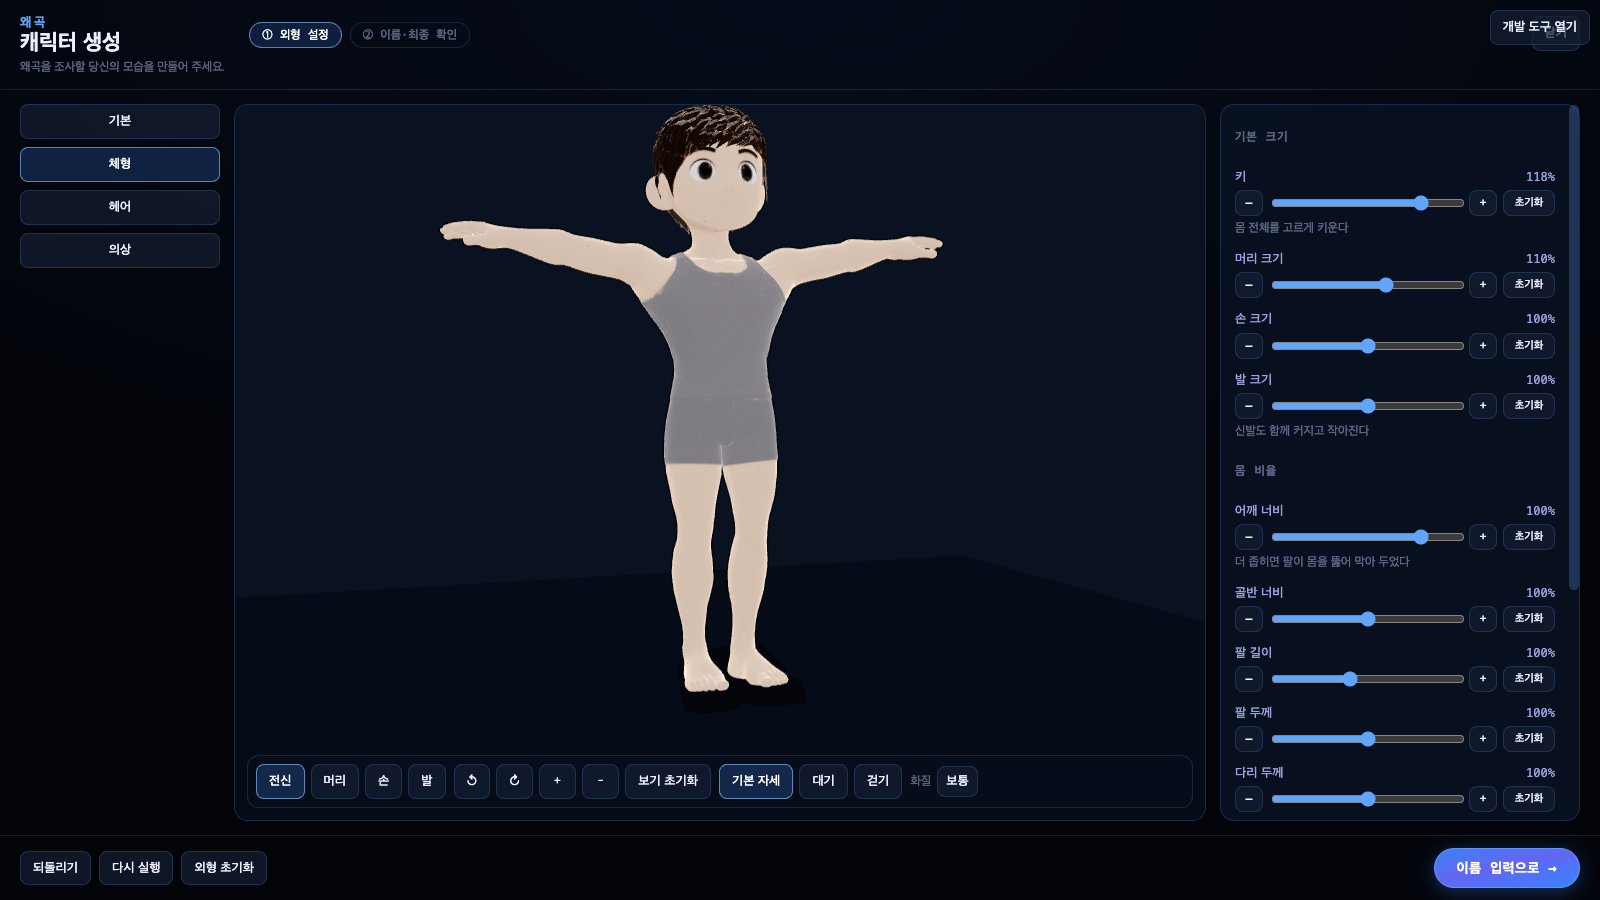
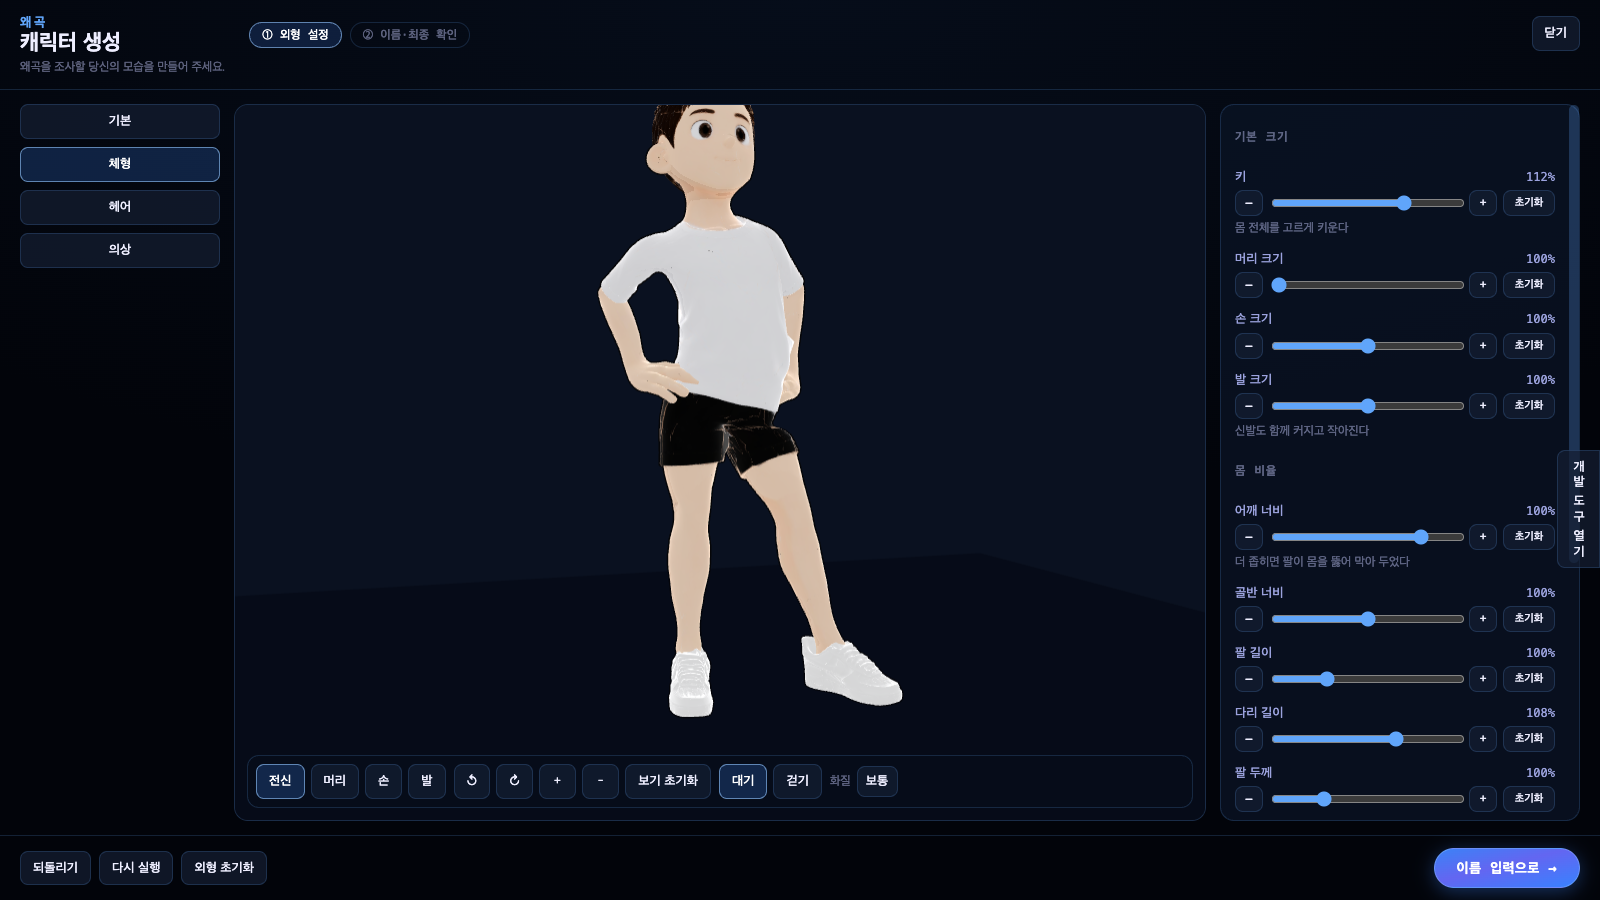
fix: scale arm and leg bones so the flesh follows, and drop the folded idle
**팔꿈치가 끊겨 보인 원인**: 팔 길이를 아래팔·손 뼈의 *위치* 로만 줄였다. 관절
사이 거리는 줄어도 위팔 살은 그대로라 팔꿈치에서 살이 겹쳤다("아래쪽만 줄어
든다"는 지적 그대로다). 이제 위팔 뼈를 **균등 배율**로 줄이고 손만 역배율로
되돌린다 — 살이 함께 줄고 늘어난다. 한 축만 줄이면 팔꿈치가 굽었을 때
찌그러지므로 반드시 균등이어야 한다.

- 같은 방식으로 **다리 길이**(legLength)를 더했다. 허벅지 뼈 배율, 발은 역배율.
  메시외형옵션에도 정식 항목으로 넣어 게임 패널에서도 조절된다.
- 남성 대기를 팔짱에서 **여성과 같은 클립(허리에 손)** 으로 바꾸고, 남성만
  다리를 5° 벌려 자세를 구분한다. 팔짱 클립은 어깨 폭이 맞지 않아 손이 반대팔을
  뚫거나 허공에 떴다. 클립 파일은 남아 있어 되살릴 수 있다.
- 남성 걷기도 다리를 3° 벌렸다(상체에 견줘 하체가 모여 보였다).
- 생성 화면 시작값: 티셔츠·반바지·운동화 차림, 머리 최소(0.80), 팔·다리 두께
  0.85, 체형 마름 20%. 미리보기 자세에서 T포즈를 빼고 대기·걷기만 남겼다.
- 팔·다리 길이는 굵기도 함께 줄므로 하한을 팔 0.78, 다리 0.85 로 두었다.
- 자동 검사 27개 통과(다리 길이·새 기본값 검사 추가).

diff --git a/naju01/src/모션보정.js b/naju01/src/모션보정.js
@@ -124,6 +124,9 @@ export const 기본보정 = {
   // 읽힌다. 허벅지를 바깥으로 a, 정강이를 안쪽으로 2a 돌리면 무릎만 바깥으로 나가고
   // 발목은 제자리다(허벅지≈정강이 길이). 발은 a 되돌려 발바닥을 평평하게 둔다.
   무릎벌림도: 3,
+  // 서 있을 때 두 다리를 좌우로 벌린다(+ 바깥). 발은 바닥에 평평히 남게 반대로 돌린다.
+  // 무릎벌림도와 달리 종아리를 되돌리지 않아 **발까지 함께 벌어진다** — 벌린 자세를 만드는 쪽이다.
+  다리벌림도: 0,
   // 발 안쪽 돌림(도, + = 발끝을 안으로). 발뼈는 앞을 보는데 살이 바깥으로 틀어진 몸체에 쓴다.
   발안쪽돌림도: 0,
   // 발마다 다르게 돌릴 때(없으면 발안쪽돌림도). 팔자걸음이 좌우 비대칭인 클립에 쓴다.
@@ -167,7 +170,7 @@ export const 트리포보정 = {
   //   어깨 세모근이 통째로 돌아 어깨가 변형되고, 좌우 팔이 다른 각도로 흔들려 보였다(되돌림).
   걷기팔롤도: 0,
   골반기울기도: 0, 허리곡선도: 0, 허리세움도: 0, 목세움도: 0, 보폭배율: 1, 발피치도: 0, 무릎펴기도: 0,
-  무릎벌림도: 0, 걷기숙임도: 0, 걷기다리앞도: 0, 걷기다리모음도: 0,
+  무릎벌림도: 0, 다리벌림도: 0, 걷기숙임도: 0, 걷기다리앞도: 0, 걷기다리모음도: 0,
   // 팔자걸음 교정 — Tripo 걷기는 디딜 때 발끝이 왼발 12°, 오른발 5.6° 바깥을 봤다(원본 캐릭터 0°).
   // 대기는 일부러 벌린 자세(28°/14°)라 이만큼 돌려도 열린 채 남는다.
   발안쪽돌림도: 0, 왼발안쪽돌림도: 10, 오른발안쪽돌림도: 4,
@@ -193,7 +196,13 @@ export const 트리포성별보정 = {
   // 내려왔다. 골반만 18° 앞으로 돌린다(다리·상체는 제자리).
   // 상체가 굳어 보여 원본 캐릭터만큼 움직이게 한다 — 실측 가슴 좌우 비틀림 폭 8.3°, 몸통 앞기울기
   // 7.2° 였다(원본 15°, 11°). 척추 비틀림을 1.4 배로 키우고 요추를 4° 더 숙여 기준에 맞춘다.
-  masculine: { 걷기숙임도: 14, 몸비틀배율: 1.4, 걷기가슴세움도: 15, 걷기목세움도: -5, 걷기골반기울기도: 18, 왼발안쪽돌림도: 14, 오른발안쪽돌림도: 8 },
+  // 걷기: 상체에 견줘 다리가 너무 모여 보였다. 조금만 벌린다(걷기다리모음도 음수 = 벌림).
+  // 대기: 남녀가 같은 클립(허리에 손)을 쓰므로, 남성만 다리를 벌려 자세를 구분한다.
+  masculine: {
+    걷기숙임도: 14, 몸비틀배율: 1.4, 걷기가슴세움도: 15, 걷기목세움도: -5, 걷기골반기울기도: 18,
+    왼발안쪽돌림도: 14, 오른발안쪽돌림도: 8, 걷기다리모음도: -3,
+    대기덧값: { 다리벌림도: 5 },
+  },
   // 여성 대기(Idle_Loop)는 골반이 앞으로 심하게 기울고 요추가 뒤로 14° 젖혀져 허리가 꺾여 보였다.
   // 골반을 20° 말아 넣고 요추를 같은 만큼 되세워 — 전체 기울기는 그대로 두고 굽이만 편다.
   // 걷기·달리기에는 안 걸린다(치비게임아바타가 Idle_Loop 클립에만 쓴다).
@@ -254,6 +263,10 @@ const 자세보정 = (값) => [
   ["foot_l", 옆축, -값.발피치도, false],
   ["foot_r", 옆축, -값.발피치도, false],
   // 무릎 벌리기 — 앞축 둘레. 왼다리는 +가 바깥.
+  ["thigh_l", 앞축, 값.다리벌림도, false],
+  ["thigh_r", 앞축, -값.다리벌림도, false],
+  ["foot_l", 앞축, -값.다리벌림도, false],
+  ["foot_r", 앞축, 값.다리벌림도, false],
   ["thigh_l", 앞축, 값.무릎벌림도, false],
   ["thigh_r", 앞축, -값.무릎벌림도, false],
   ["calf_l", 앞축, -2 * 값.무릎벌림도, false],

diff --git a/naju01/src/캐릭터생성/카탈로그.js b/naju01/src/캐릭터생성/카탈로그.js
@@ -54,10 +54,11 @@ export const 기본카탈로그 = {
     항목("shoes.none", "shoes", "맨발", ["masculine", "feminine"], -1, { 썸네일: 성별그림("shoes.none") }),
     항목("shoes.sneaker.white", "shoes", "흰 운동화", ["masculine", "feminine"], 0, { 썸네일: 성별그림("shoes.sneaker.white") }),
   ],
-  // 처음 들어왔을 때의 착장 — 기본 속옷·맨발이다(요구 4장).
+  // 처음 들어왔을 때의 착장 — 지금 준비된 티셔츠·반바지·운동화 차림으로 시작한다.
+  // (속옷 차림으로 시작하지 않는다. 속옷만 보고 싶으면 '속옷으로 체형 보기' 를 켜면 된다.)
   신규기본: {
-    masculine: { hair: "hair.m.crop", top: "top.none", bottom: "bottom.none", shoes: "shoes.none" },
-    feminine: { hair: "hair.f.bob", top: "top.none", bottom: "bottom.none", shoes: "shoes.none" },
+    masculine: { hair: "hair.m.crop", top: "top.tee.white", bottom: "bottom.shorts.black", shoes: "shoes.sneaker.white" },
+    feminine: { hair: "hair.f.bob", top: "top.tee.white", bottom: "bottom.shorts.black", shoes: "shoes.sneaker.white" },
   },
   색상: 색상표(),
 };

diff --git a/naju01/src/캐릭터생성/캐릭터프리뷰.jsx b/naju01/src/캐릭터생성/캐릭터프리뷰.jsx
@@ -18,9 +18,9 @@ import { 색, 단추, 고른단추, 작은글 } from "./스타일.js";
 
 export const 보기목록 = [["전신", "전신"], ["머리", "머리"], ["손", "손"], ["발", "발"]];
 
-// 미리보기 자세는 **외형 데이터가 아니다.** 편집 중에는 몸을 가리지 않는 기본 자세를 쓰고,
-// 게임에서 어떻게 보이는지는 대기·걷기로 따로 확인한다(요구 6장).
-export const 자세목록 = [["A_TPose", "기본 자세"], ["Idle_Loop", "대기"], ["Walk_Loop", "걷기"]];
+// 미리보기 자세는 **외형 데이터가 아니다.** 게임에서 실제로 쓰는 자세만 둔다.
+// (T포즈 같은 작업용 자세는 빼 두었다 — 이용자에게 보여 줄 자세가 아니다.)
+export const 자세목록 = [["Idle_Loop", "대기"], ["Walk_Loop", "걷기"]];
 
 export const 품질목록 = [["낮음", "낮음"], ["보통", "보통"], ["높음", "높음"]];
 
@@ -238,7 +238,7 @@ export default function CC캐릭터프리뷰({
   설정,
   보기 = "전신",
   set보기,
-  자세 = "A_TPose",
+  자세 = "Idle_Loop",
   set자세,
   품질 = "보통",
   set품질,

diff --git a/naju01/src/메시외형옵션.js b/naju01/src/메시외형옵션.js
@@ -53,6 +53,7 @@ export const 메시슬라이더 = [
   ["heavy", "통통", 0, 1, 0.05],
   ["skinny", "마름", 0, 1, 0.05],
   ["armLength", "팔 길이", 0.7, 1.15, 0.01],
+  ["legLength", "다리 길이", 0.8, 1.2, 0.01],
   ["handScale", "손 크기", 0.7, 1.3, 0.01],
   ["footScale", "발 크기", 0.7, 1.3, 0.01],
   ["fistHands", "주먹 쥐기", 0, 1, 0.05],
@@ -87,8 +88,11 @@ export const 기본메시설정 = {
   heavy: 0,
   skinny: 0,
   // 팔 길이. Meshy 몸체는 팔이 무릎 가까이 내려올 만큼 길어 기본을 줄여 둔다.
-  // 뼈 스케일이 아니라 아래팔·손 뼈의 위치를 당기는 방식이라 손이 찌그러지지 않는다.
+  // 위팔 뼈를 통째로 균등 배율로 줄이고 손만 역배율로 되돌린다(치비게임아바타) — 살이 함께 줄어
+  // 팔꿈치가 끊겨 보이지 않는다.
   armLength: 0.88,
+  // 다리 길이. 팔과 같은 방식(허벅지 뼈를 통째로 배율 — 치비게임아바타)이라 살이 함께 줄고 늘어난다.
+  legLength: 1,
   handScale: 1,
   footScale: 1,
   fistHands: 0.6,

diff --git a/naju01/src/캐릭터생성/캐릭터생성화면.jsx b/naju01/src/캐릭터생성/캐릭터생성화면.jsx
@@ -156,7 +156,7 @@ export default function CC캐릭터생성화면({
   const [안내, set안내] = useState(처음값.알림.length ? 처음값.알림.join(" ") : null);
   const [좁음, set좁음] = useState(false);
   const [보기, set보기] = useState("전신");
-  const [자세, set자세] = useState("A_TPose");
+  const [자세, set자세] = useState("Idle_Loop");
   const [품질, set품질] = useState("보통");
 
   const [이름, set이름] = useState(처음값.초안.displayName);

diff --git a/naju01/src/캐릭터생성/미리보기.jsx b/naju01/src/캐릭터생성/미리보기.jsx
@@ -90,7 +90,7 @@ function CC미리보기() {
       </div>
 
       {판보임 ? null : (
-        <button type="button" style={{ ...단추, position: "fixed", right: 10, bottom: 10, zIndex: 5 }} onClick={() => set판보임(true)}>
+        <button type="button" style={{ ...단추, position: "fixed", right: 0, top: "50%", zIndex: 5, borderRadius: "8px 0 0 8px", writingMode: "vertical-rl" }} onClick={() => set판보임(true)}>
           개발 도구 열기
         </button>
       )}

diff --git a/docs/캐릭터생성-인수인계.md b/docs/캐릭터생성-인수인계.md
@@ -11,7 +11,7 @@
 npx vite naju01                      # 개발 서버 (포트 5174 고정)
 # → http://localhost:5174/캐릭터생성.html      개발 미리보기(가짜 서버 도구 포함)
 
-node naju01/도구/캐릭터생성검사.mjs   # 자동 검사 25개 (개발 서버가 떠 있어야 한다)
+node naju01/도구/캐릭터생성검사.mjs   # 자동 검사 27개 (개발 서버가 떠 있어야 한다)
 node naju01/도구/캐릭터생성썸네일.mjs # 카드 썸네일 다시 굽기 (에셋이 바뀐 뒤에만)
 ```
 
@@ -40,18 +40,27 @@ node naju01/도구/캐릭터생성썸네일.mjs # 카드 썸네일 다시 굽기
 | 파일 | 변경 | 왜 |
 |---|---|---|
 | `naju01/src/치비게임아바타.jsx` | 신발을 신었을 때 발 크기를 **발뼈 배율**로 반영(그때 발 모프는 0) | 신발 GLB 8개에 모프 타깃이 없어, 신으면 발 크기 조절이 안 보였다 |
+| `naju01/src/치비게임아바타.jsx` | 팔·다리 길이를 **뼈 균등 배율**로 바꾸고, 남성 팔짱 대기 치환을 걷어냈다 | 위치만 당기면 팔꿈치에서 살이 겹쳐 끊겨 보였다 / 팔짱 자세가 어깨 폭과 맞지 않았다 |
+| `naju01/src/모션보정.js` | `다리벌림도` 보정을 더하고, 남성 대기·걷기에 걸었다 | 남녀가 같은 대기 클립을 쓰게 되어, 다리 폭으로 자세를 구분한다 |
+| `naju01/src/메시외형옵션.js` | `legLength` 를 정식 항목으로 더했다 | 다리 길이 조절 요구 |
 | `naju01/src/치비게임아바타.jsx` | 파츠의 뼈가 몸 골격에 없으면 **붙이지 않고 `준비.파츠오류` 에 남긴다** | 예전에는 없는 뼈를 0번(뿌리)으로 몰아 붙여, 망가진 채로 그럭저럭 보였다 |
 
-두 변경 모두 지금 에셋에서는 기존과 같은 결과를 낸다(신발 뼈는 전부 대응되고, 발 크기 기본값은 1.0).
+기존 게임 화면에서 달라지는 것은 **남성 대기 자세**(팔짱 → 허리에 손 + 벌린 다리)와 **남성 걷기 다리 폭**뿐이다.
 
 ---
 
 ## 3. 실제로 지원하는 외형
 
+**대기·걷기 자세** 남녀 모두 같은 대기 클립(허리에 손)을 쓰고, 남성만 다리를 5° 벌려 자세를 구분한다.
+걷기도 남성만 다리를 조금 벌렸다(`트리포성별보정.masculine`). 남성 팔짱 대기 클립은 어깨 폭이 맞지 않아
+손이 반대팔을 뚫거나 허공에 떠서 걷어냈다 — 클립 파일은 남아 있어 되살릴 수 있다.
+
 **성별** 남성(`masculine`) · 여성(`feminine`). 캐릭터 외형의 성별이며 계정 정보와 무관하다.
 성별마다 초안을 따로 들고 있어 남→여→남 으로 돌아오면 이전 설정이 그대로 복원된다.
 
-**처음 들어왔을 때** 기본 속옷 · 맨발 · 그 성별의 기본 헤어. 초안을 불러온 경우에는 덮어쓰지 않는다.
+**처음 들어왔을 때** 흰 티셔츠 · 검은 반바지 · 흰 운동화 · 그 성별의 기본 헤어.
+속옷 차림만 보고 싶으면 '속옷으로 체형 보기' 를 켜면 되고, 그것은 **일시적인 미리보기**라 골라 둔 옷은 그대로 남는다.
+초안을 불러온 경우에는 덮어쓰지 않는다.
 
 | 슬롯 | 실제 선택지 | 비고 |
 |---|---|---|
@@ -70,22 +79,27 @@ node naju01/도구/캐릭터생성썸네일.mjs # 카드 썸네일 다시 굽기
 
 **체형** (모두 실제 3D 에 반영된다)
 
-| 항목 | 키 | 범위 | 기본 | 어떻게 바뀌나 |
+| 항목 | 키 | 범위 | 시작값 | 어떻게 바뀌나 |
 |---|---|---|---|---|
 | 키 | `heightScale` | 0.70~1.30 | 1.00 | 캐릭터 전체 균일 배율 |
-| 머리 크기 | `headScale` | 0.80~1.30 | 1.00 | head 뼈 배율 |
+| 머리 크기 | `headScale` | 0.80~1.30 | **0.80** | head 뼈 배율 |
 | 손 크기 | `handScale` | 0.70~1.30 | 1.00 | 모프 |
 | 발 크기 | `footScale` | 0.70~1.30 | 1.00 | 맨발은 모프, **신발을 신으면 발뼈 배율**(신발째 커진다) |
-| 어깨 너비 | `shoulderWidth` | **1.00~1.25** | 1.20 | 위팔 뼈 위치(아래 5장 참고 — 렌더러 범위보다 좁게 잡았다) |
+| 어깨 너비 | `shoulderWidth` | **1.00~1.25** | 1.20 | 위팔 뼈 위치(아래 5장 — 렌더러 범위보다 좁게 잡았다) |
 | 골반 너비 | `hipWidth` | 0.70~1.30 | 1.00 | 모프 |
-| 팔 길이 | `armLength` | 0.70~1.15 | 0.88 | 아래팔·손 뼈 위치 |
-| 팔 두께 | `armThickness` | 0.70~1.30 | 1.00 | 모프 |
-| 다리 두께 | `legThickness` | 0.70~1.30 | 1.00 | 모프 |
-| 체형 | `build` | -1~+1 | 0 | 음수 → `skinny`, 양수 → `heavy` (반대쪽은 0) |
+| 팔 길이 | `armLength` | **0.78~1.15** | 0.88 | **위팔 뼈 균등 배율**(손은 역배율로 되돌린다) |
+| 다리 길이 | `legLength` | **0.85~1.20** | 1.00 | **허벅지 뼈 균등 배율**(발은 역배율로 되돌린다) |
+| 팔 두께 | `armThickness` | 0.70~1.30 | **0.85** | 모프 |
+| 다리 두께 | `legThickness` | 0.70~1.30 | **0.85** | 모프 |
+| 체형 | `build` | -1~+1 | **-0.20** | 음수 → `skinny`, 양수 → `heavy` (반대쪽은 0) |
 | 골격 | `buff` | 0~1 | 0 | 몸통·다리 전체 두께 |
 
+**팔·다리 길이는 뼈를 통째로 균등 배율로 줄인다.** 예전에는 아래팔·손 뼈의 *위치* 만 당겼는데, 그러면 관절 사이
+거리는 줄어도 위팔 살은 그대로라 팔꿈치에서 살이 겹쳐 **팔이 끊어져 보였다**(아래팔만 줄어든 것처럼 보인 이유다).
+지금은 살이 함께 줄고 늘어난다. 대신 길이를 줄이면 굵기도 같은 비율로 줄어 소매가 헐렁해 보이므로 하한을 두었다.
+
 숫자는 cm 가 아니라 **기본 대비 비율**로 보여 준다(모델의 실제 치수를 잰 적이 없다).
-어깨 100% = 1.20, 팔 길이 100% = 0.88 이다 — 초기화는 이 보정된 기본값으로 돌아간다.
+표시되는 100% 는 **위 표의 시작값**이다(어깨 100% = 1.20, 머리 100% = 0.80). 초기화도 그 자리로 돌아간다.
 
 눈·코·입, 손가락 길이 같은 **지원하지 않는 조절은 넣지 않았다.**
 
@@ -97,7 +111,7 @@ node naju01/도구/캐릭터생성썸네일.mjs # 카드 썸네일 다시 굽기
 import CC캐릭터생성화면 from "…/naju01/src/캐릭터생성/캐릭터생성화면.jsx";
 
 <CC캐릭터생성화면
-  initialValue={복구할초안}          // 없으면 신규 기본값(속옷·맨발)
+  initialValue={복구할초안}          // 없으면 신규 기본값(티셔츠·반바지·운동화)
   catalog={목록}                    // 없으면 저장소의 실제 에셋 목록
   nameRules={{ 최소: 2, 최대: 12, 허용: "…", 허용설명: "…" }}
   checkName={async (이름, { signal }) => { /* 서버에 묻는다 */ }}
@@ -139,10 +153,10 @@ onComplete 로 나가는 payload (순수 데이터만 — three 객체·함수·
       bodyAssetVersion: "20",
       gender: "masculine",
       bodyParameters: { heightScale, headScale, shoulderWidth, hipWidth,
-                        armLength, armThickness, legThickness,
+                        armLength, legLength, armThickness, legThickness,
                         handScale, footScale, build, buff },
       hairId: "hair.m.crop",
-      equipmentIds: { top: "top.tee.white", bottom: "bottom.none", shoes: "shoes.sneaker.white" },
+      equipmentIds: { top: "top.tee.white", bottom: "bottom.shorts.black", shoes: "shoes.sneaker.white" },
       supportedColorValues: { skin: "#ffffff", hair: "#ffffff", cloth: "#ffffff" }
     }
   }
@@ -168,10 +182,9 @@ onComplete 로 나가는 payload (순수 데이터만 — three 객체·함수·
 
 ## 5. 검증 결과
 
-`node naju01/도구/캐릭터생성검사.mjs` — **25개 전부 통과** (macOS, Chrome, 1600×950).
+`node naju01/도구/캐릭터생성검사.mjs` — **27개 전부 통과** (macOS, Chrome, 1600×950).
 
-확인한 것: 신규 기본이 속옷·맨발인지 / 기본값이 보정된 값(어깨 1.20·팔 0.88)인지 / 키 슬라이더가 실제 모델 높이를
-바꾸는지(1.51 m → 1.96 m / 1.06 m) / 항목 초기화 / 성별별 초안 보존(남 1.25 · 여 0.85) / 옷을 갈아입어도 체형 유지 /
+확인한 것: 신규 기본이 티셔츠·반바지·운동화 차림에 정해 둔 체형인지 / 기본값이 보정된 값(어깨 1.20·팔 0.88)인지 / 키·다리 길이 슬라이더가 실제 모델을 바꾸는지(키 1.42 m → 1.85 m, 골반 높이 0.59 m → 0.78 m) / 항목 초기화 / 성별별 초안 보존(남 1.25 · 여 0.85) / 옷을 갈아입어도 체형 유지 /
 **신발을 신은 채 발 크기가 신발에 반영되는지**(0.24 → 0.44) / 옷을 연달아 빨리 눌러도 화면이 마지막 선택과 맞는지 /
 확인 도중 이름을 바꾸면 늦게 온 답이 '사용 가능' 으로 남지 않는지 / 중복·형식 오류 / 완료 데이터의 내용 /
 완료가 저절로 화면을 넘기지 않는지 / 완료 뒤 다시 못 누르는지 / 초안을 `initialValue` 로 넣으면 복원되고
@@ -187,8 +200,11 @@ onComplete 로 나가는 payload (순수 데이터만 — three 객체·함수·
 ### 남은 제약 (에셋 쪽 숙제)
 
 1. **어깨 너비 하한을 1.00 으로 막아 두었다.** 렌더러는 0.75 까지 받지만, 0.75 로 좁히면 걸을 때 손가락이
-   반바지 안으로 들어가고 남성 팔짱 대기에서 아래팔이 가슴에 파묻힌다(눈으로 확인). 1.00 은 둘 다 깨끗했다.
-   더 좁은 어깨를 지원하려면 팔짱 클립 보정과 걷기 팔 궤적을 어깨 폭에 맞춰 바꿔야 한다.
+   반바지 안으로 들어간다(눈으로 확인). 1.00 은 깨끗했다. 더 좁은 어깨를 지원하려면 걷기 팔 궤적을
+   어깨 폭에 맞춰 바꿔야 한다.
+1-2. **팔·다리 길이를 줄이면 굵기도 같은 비율로 줄어든다.** 뼈를 균등 배율로 줄이기 때문이다(한 축만 줄이면
+   팔꿈치·무릎이 굽었을 때 찌그러진다). 많이 줄이면 소매·바지가 헐렁해 보여 하한을 팔 0.78, 다리 0.85 로 두었다.
+   길이만 바꾸고 굵기는 그대로 두려면 몸체 GLB 에 길이 전용 모프를 구워야 한다.
 2. **신발에는 모프 타깃이 없다.** 지금은 발뼈 배율로 신발째 키우고 줄인다. 발 크기를 크게 키우면 발목에서
    신발과 종아리가 만나는 선이 조금 두꺼워 보인다. 신발 GLB 에 손·발 모프를 함께 구우면 깔끔해진다.
 3. **상·하의 색이 하나로 묶여 있다.** 정점 표식(`_TINT`)이 의상을 한 갈래로만 구분한다. 따로 칠하려면
